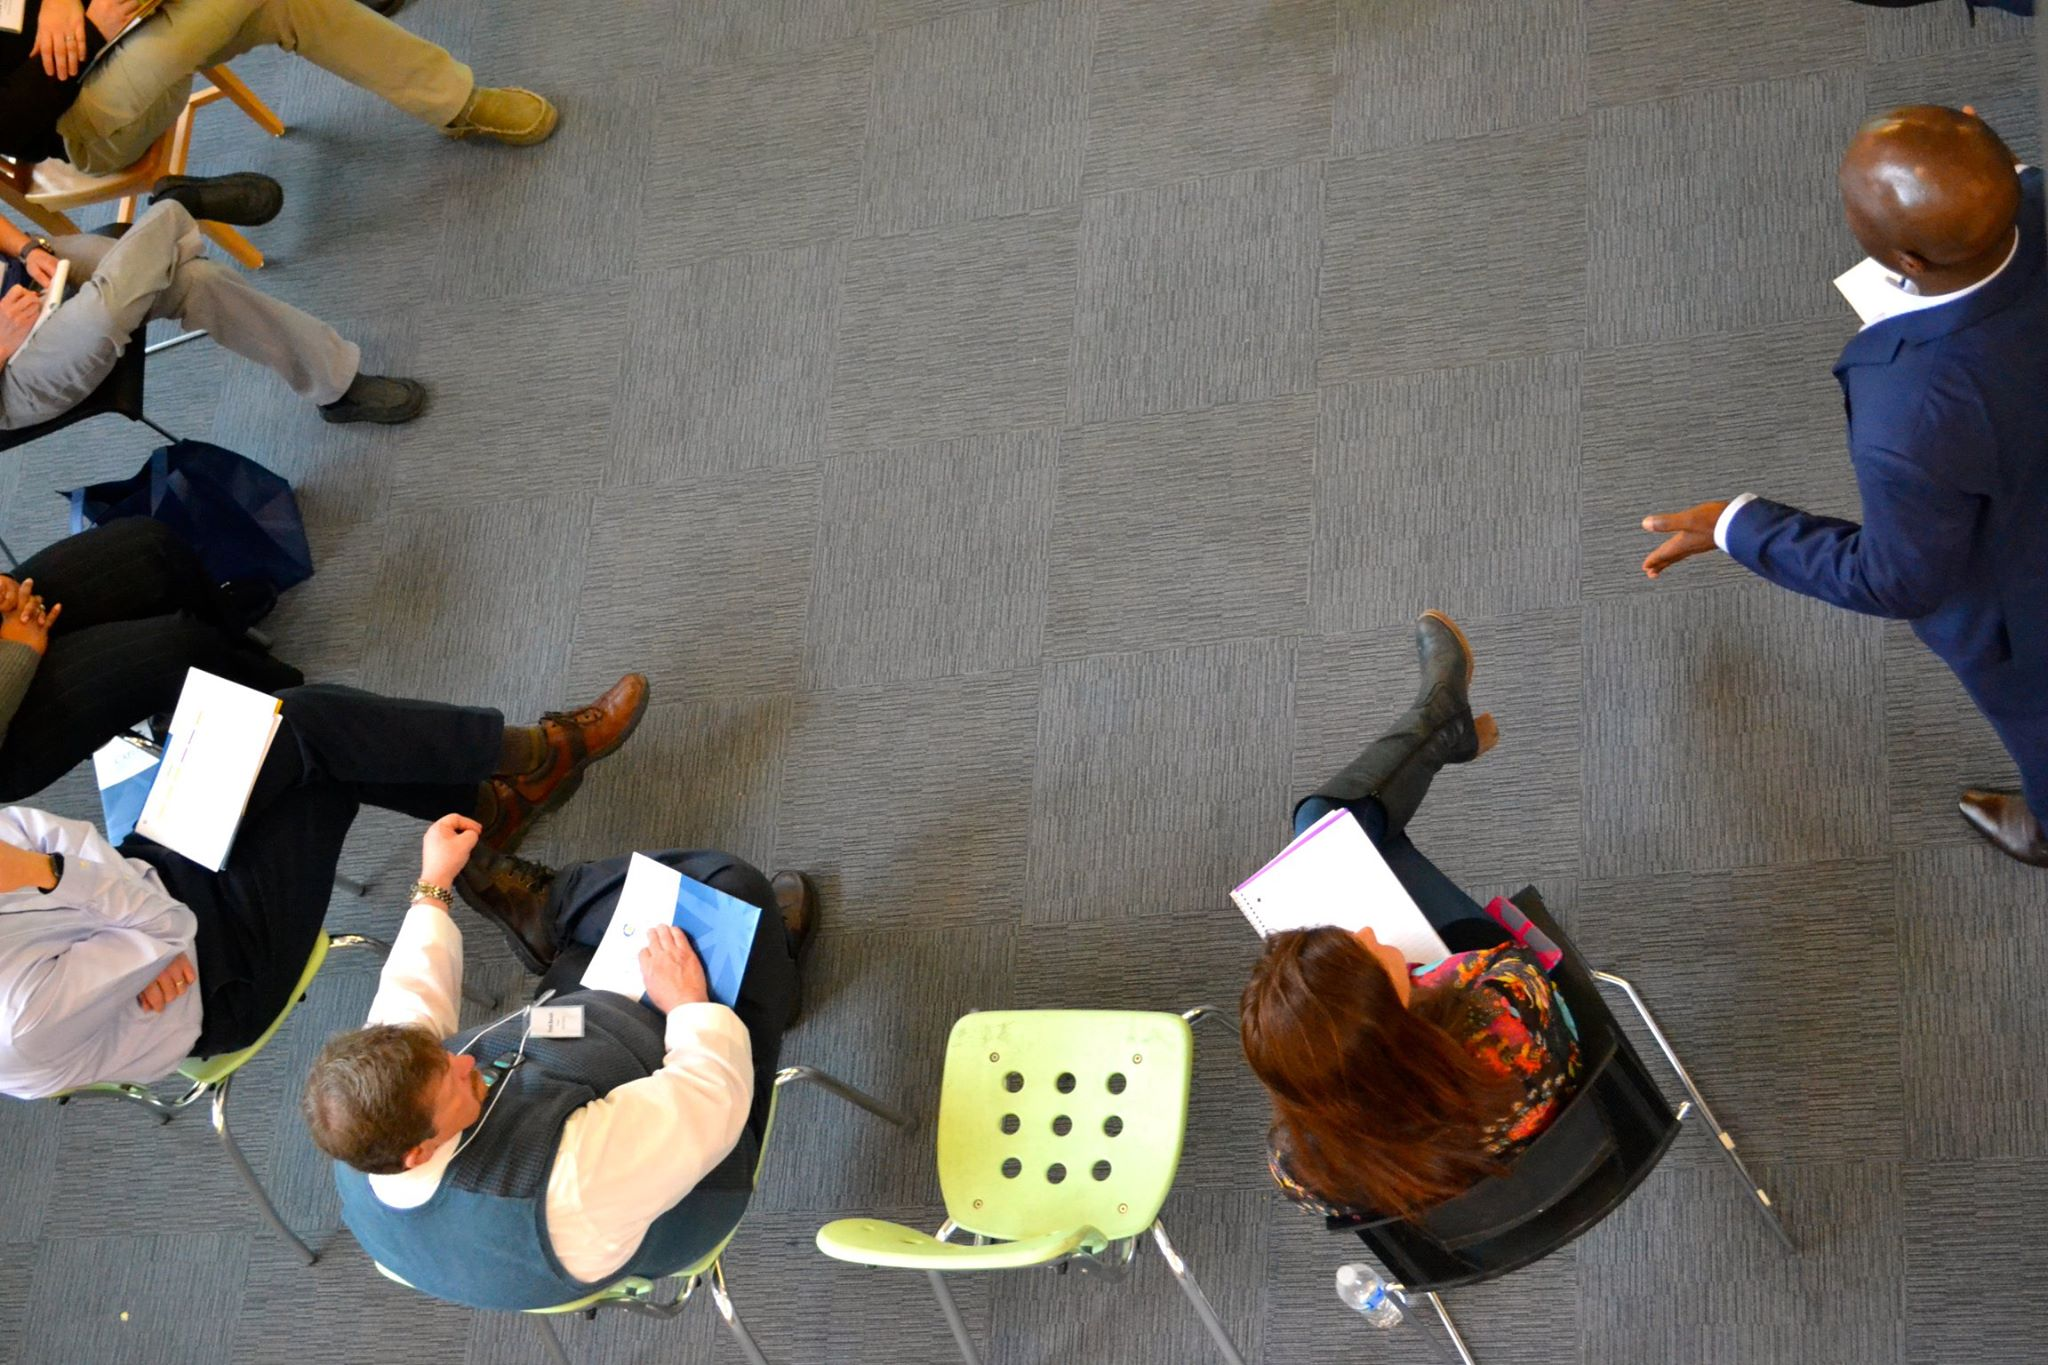
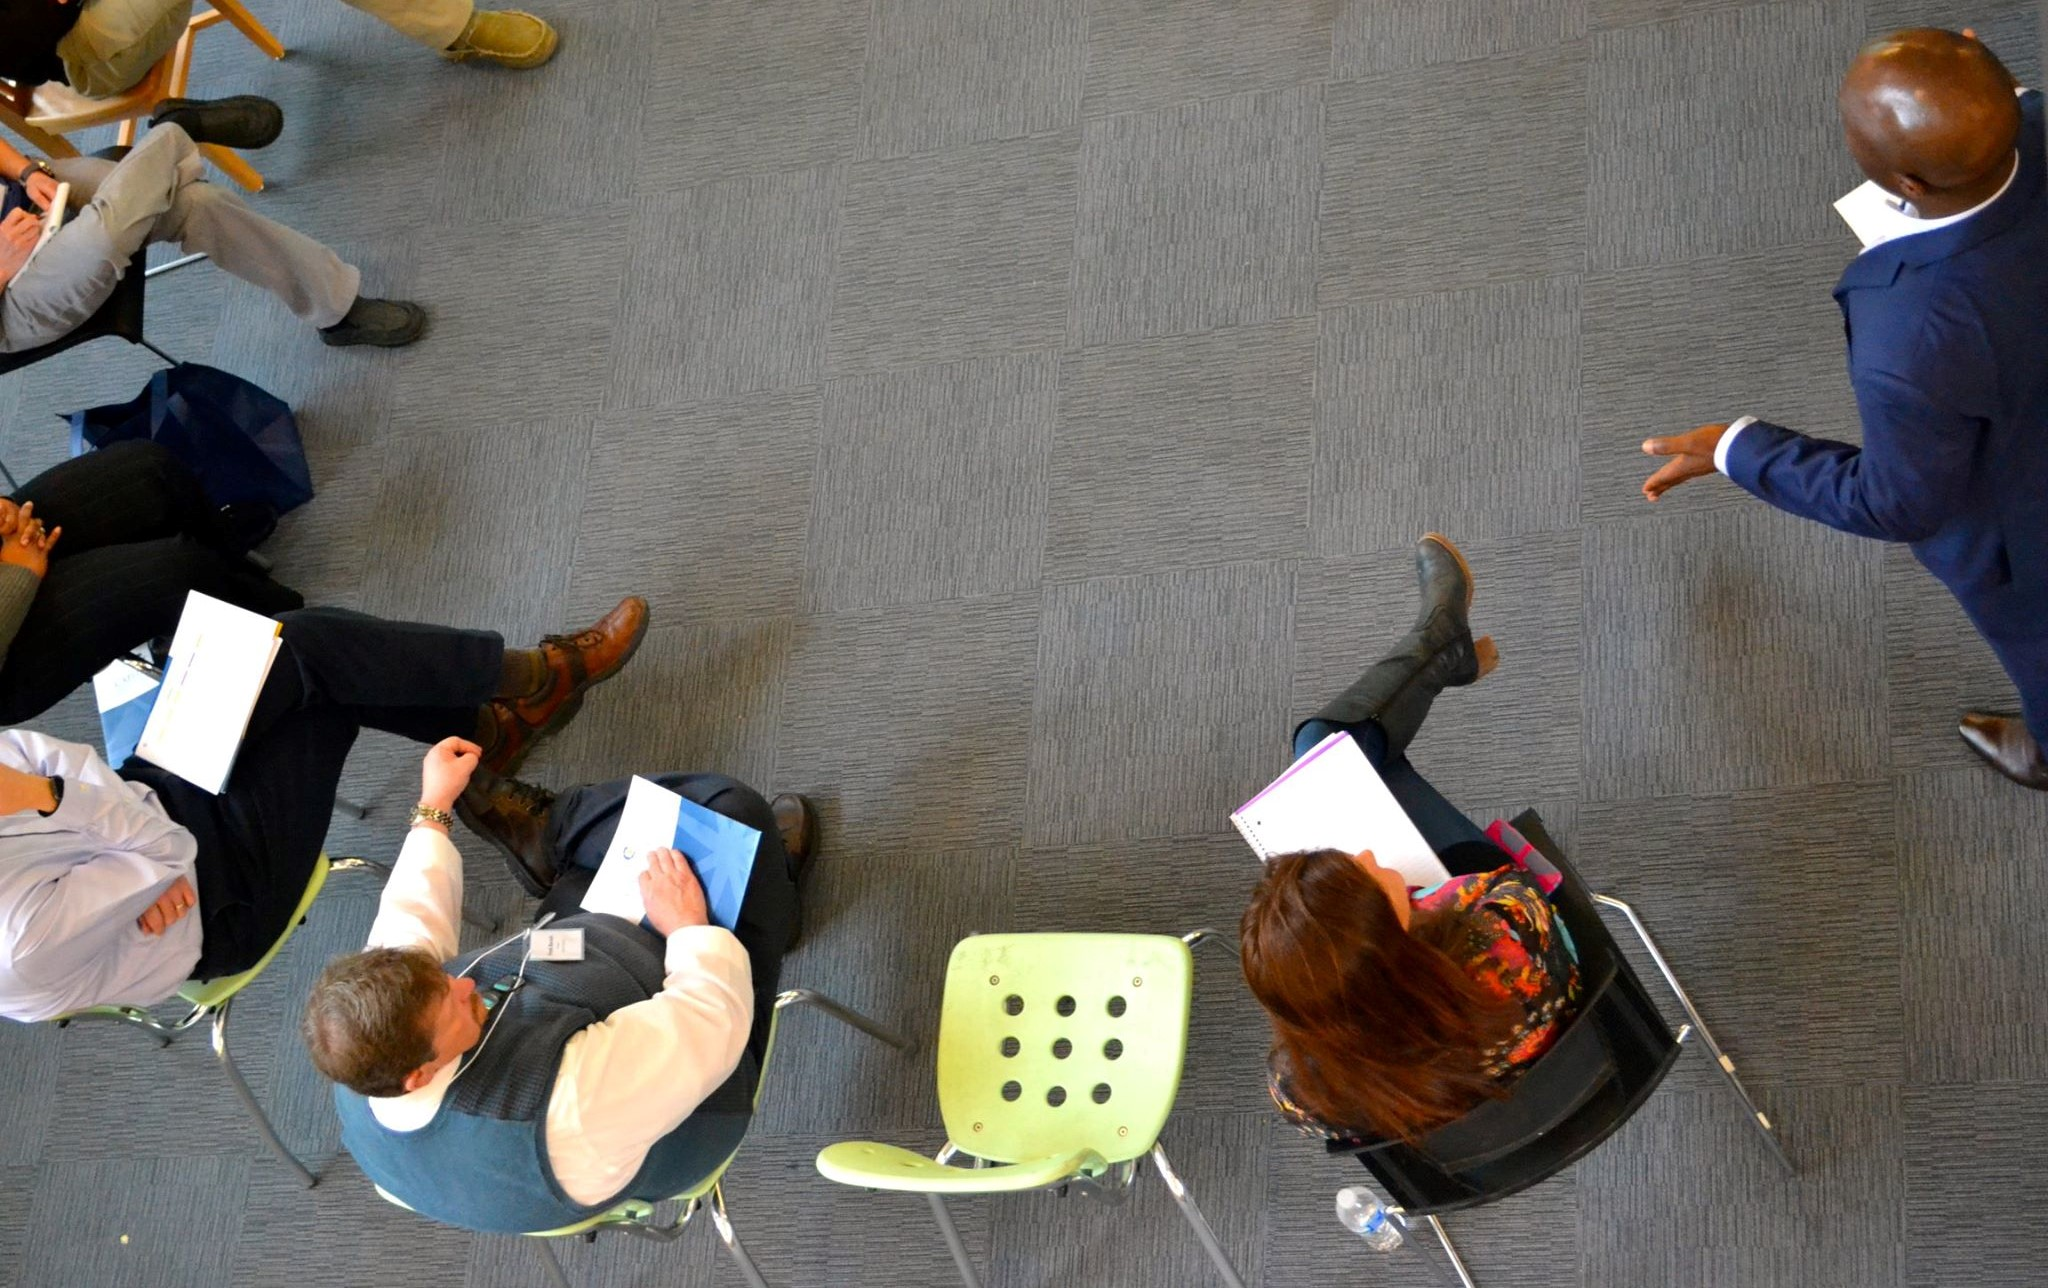
checking error

diff --git a/src/components/hero.jsx b/src/components/hero.jsx
@@ -1,5 +1,5 @@
 import Navbar from "./navbar";
-import HeroImage from './hero.jpg';
+import HeroImage from './hero-edited.png';
 
 const Hero = () => {
   return (
